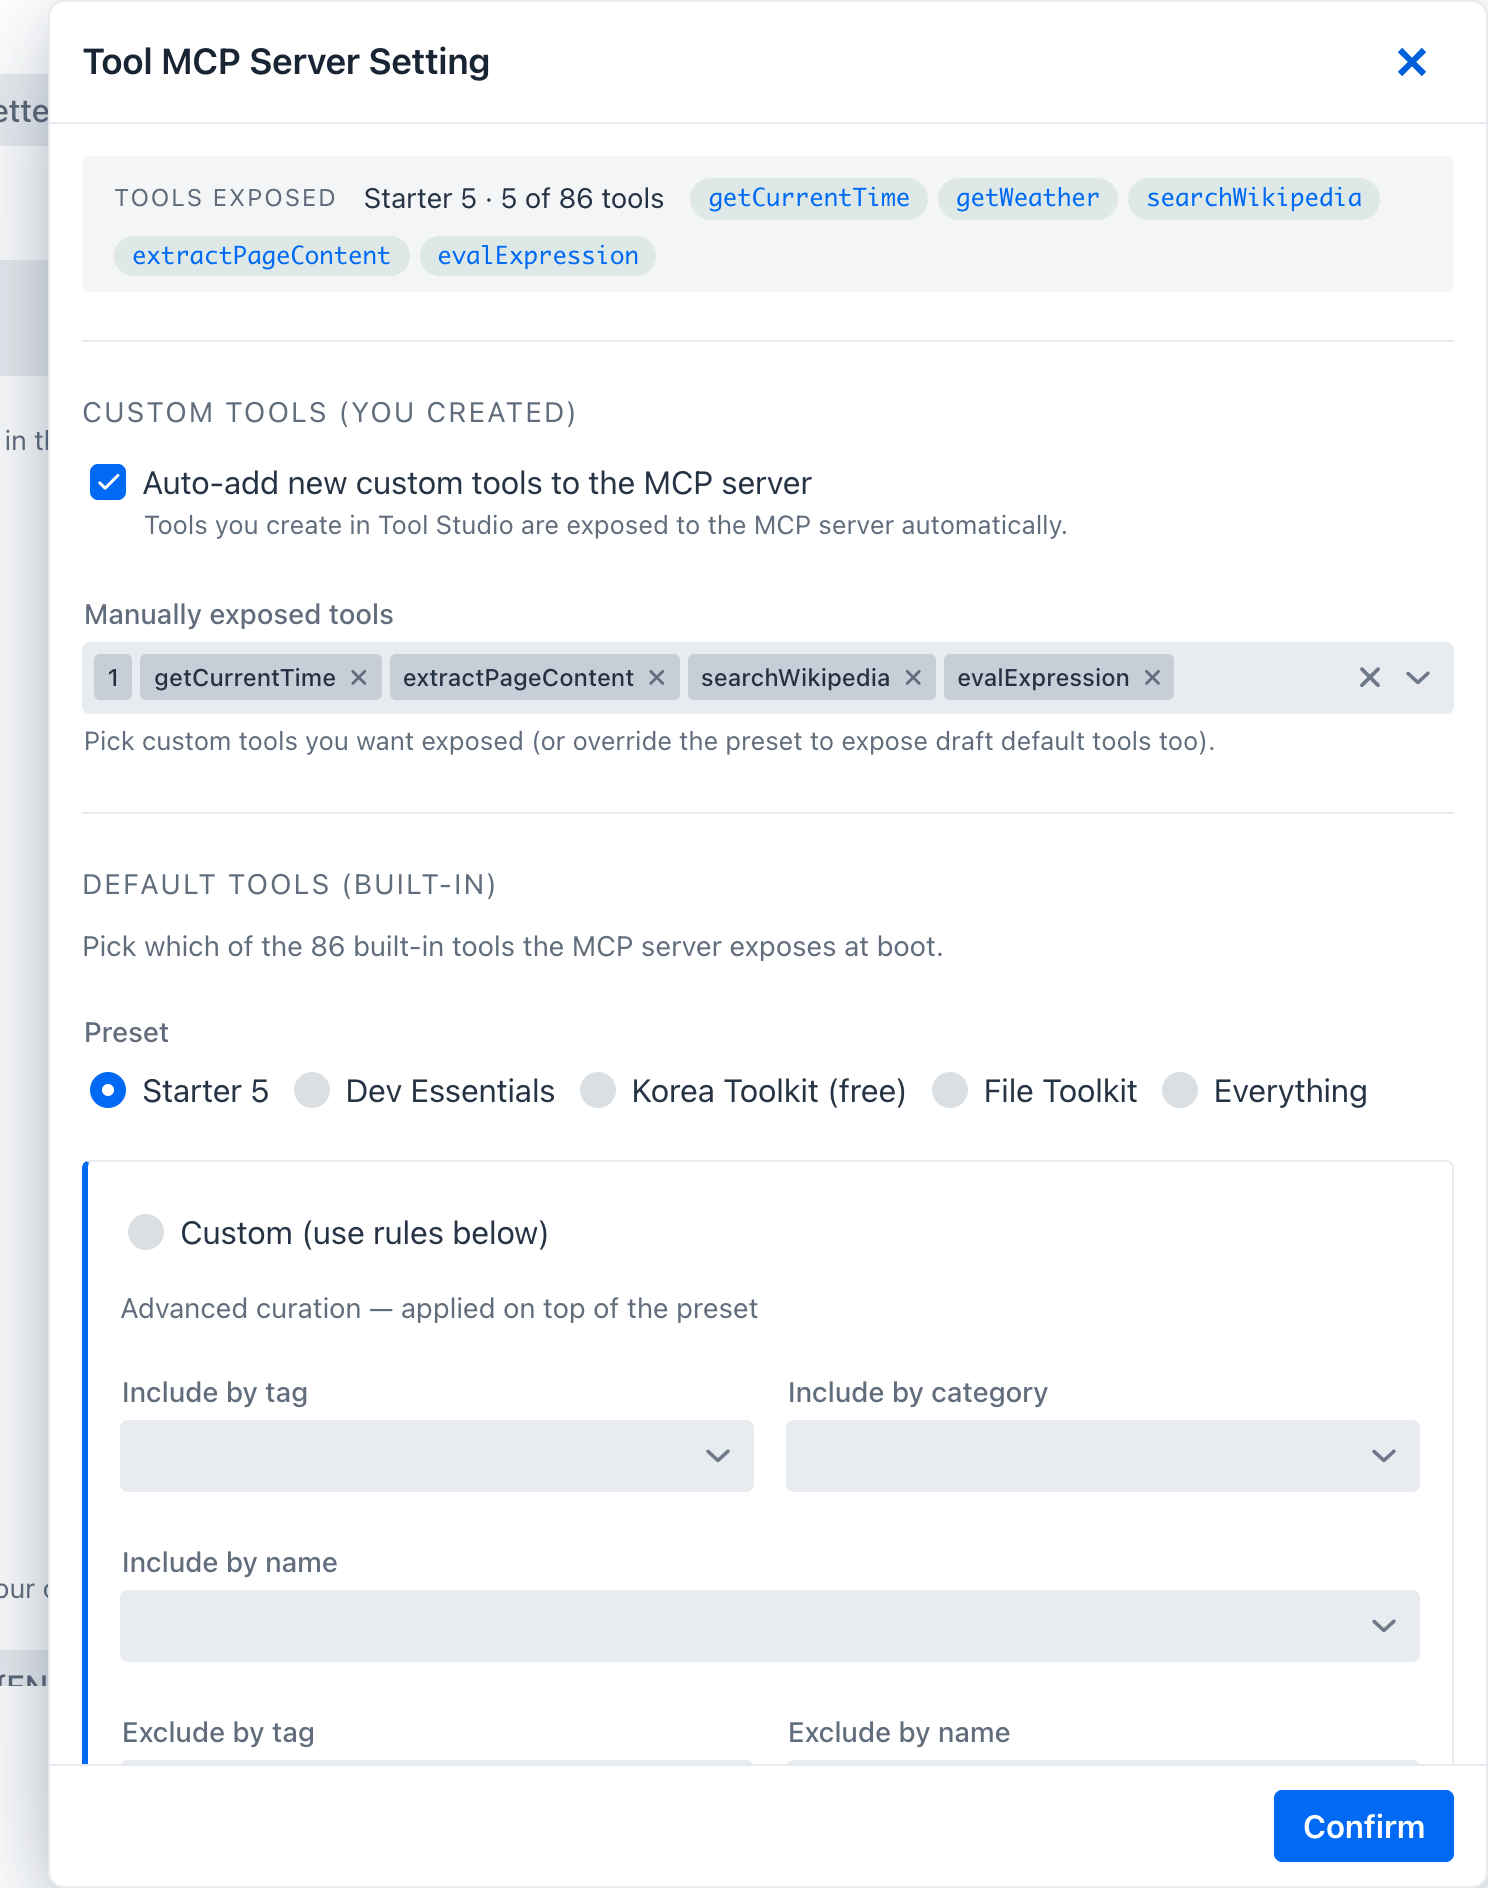
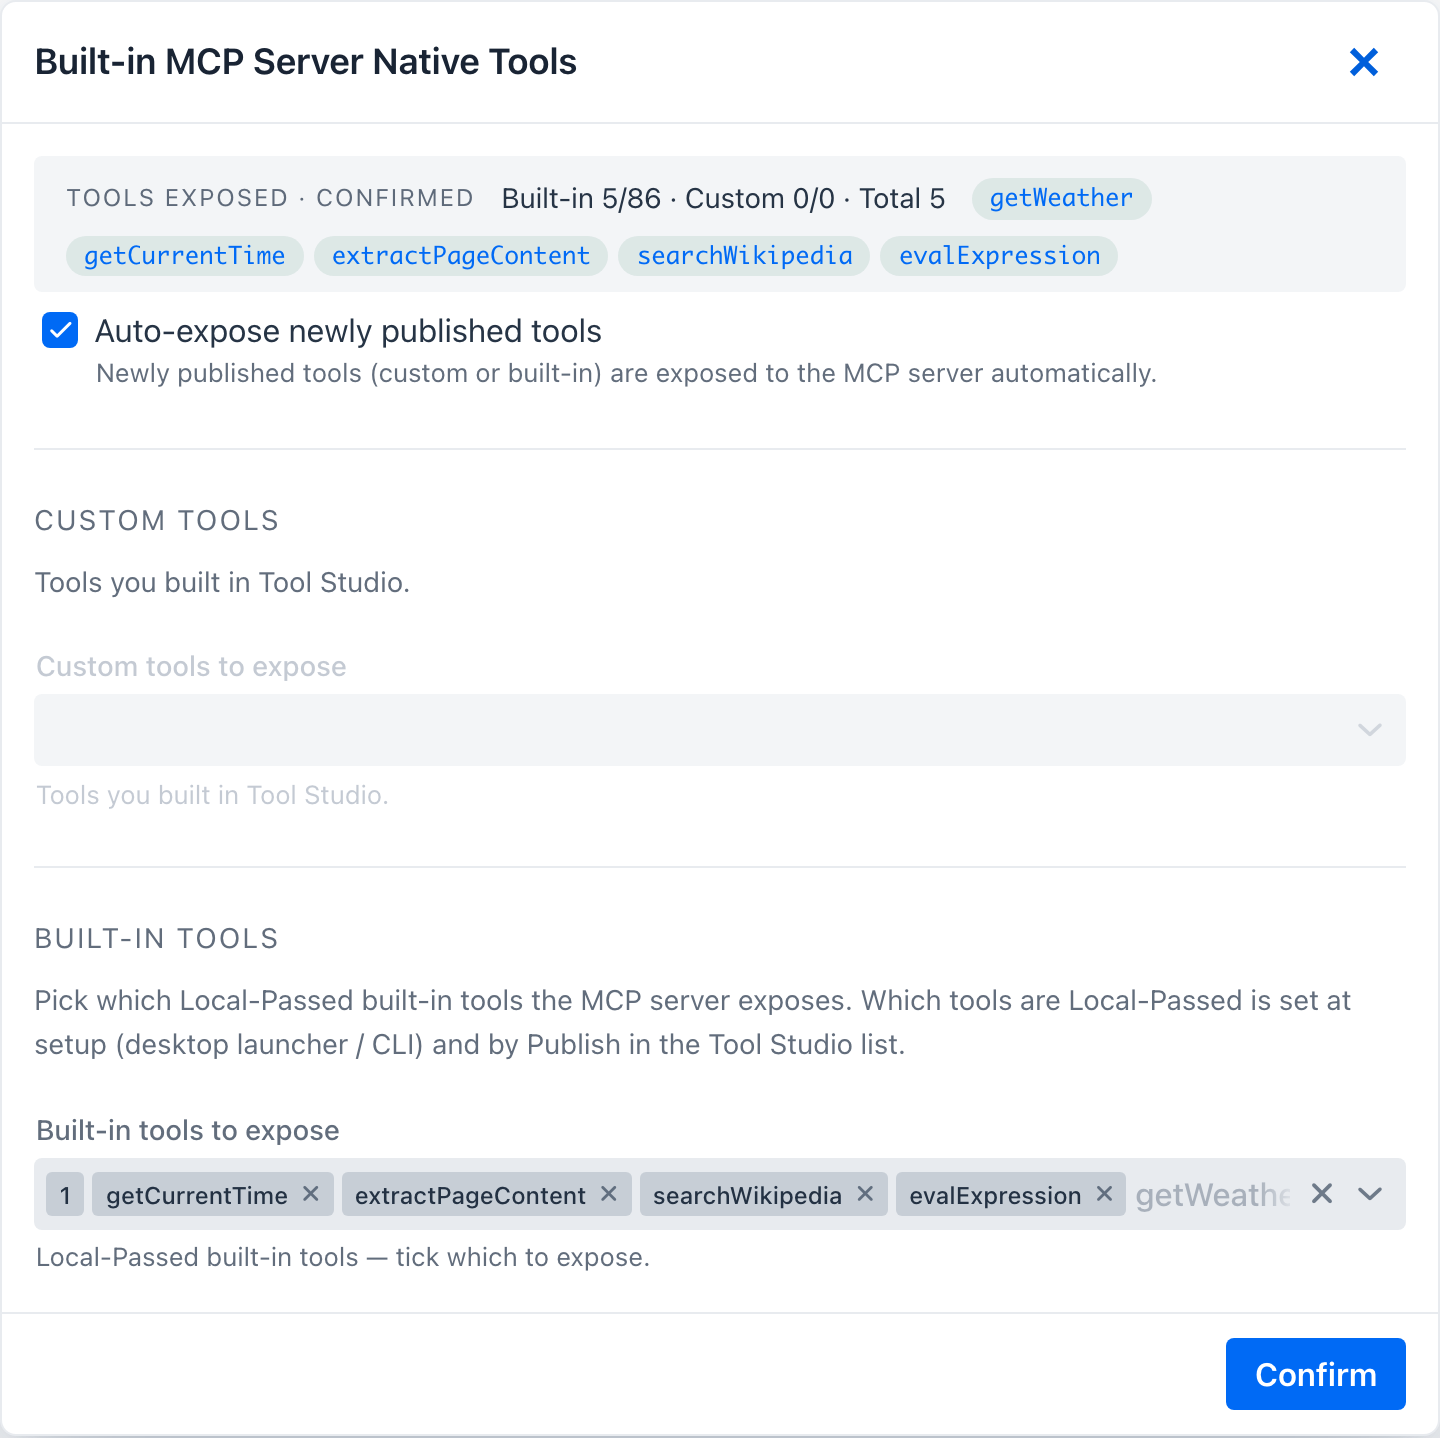
fix(docs): refresh stale ui screenshots, fix lifecycle diagram label

diff --git a/docs/features/vector-database.md b/docs/features/vector-database.md
@@ -6,7 +6,7 @@ description: Vector Database - RAG ingestion and retrieval-validation. Document 
 
 Vector Database is the RAG preparation and retrieval-validation area.
 
-![Vector Database surface - document ingestion form, chunking and embedding pipeline, store selector (Chroma / PGVector / Redis / etc.), and a similarity-search panel for retrieval validation](../assets/images/vectordb.gif)
+![Vector Database - the SimpleVectorStore surface with the embedding model, a similarity-search bar, a Spring AI metadata filter, and the results grid (Score, Id, Text, Metadata)](../assets/images/vector-database.png)
 
 It gives you an end-to-end environment for document ingestion, chunking, embedding, storage, and similarity search.
 

diff --git a/docs/features/agentic-chat.md b/docs/features/agentic-chat.md
@@ -6,7 +6,7 @@ description: Agentic Chat - one runtime combining documents, tools, models, and 
 
 Agentic Chat is the unified runtime where Spring AI Playground combines documents, tools, models, and conversation state.
 
-![Agentic Chat session - model conversation with inline tool-call traces, MCP tool selector, document context drawer, and streamed assistant response](../assets/images/chat-mcp.gif)
+![Agentic Chat - a conversation rendered with per-role avatars and Markdown, above the built-in tool, external MCP, and RAG document selectors and the prompt input](../assets/images/agentic-chat.png)
 
 This unified interface lets you:
 

diff --git a/docs/safe-tool-specification.md b/docs/safe-tool-specification.md
@@ -681,7 +681,7 @@ stateDiagram-v2
 
     DRAFT --> ACTIVE : Local Pass earned<br/>+ env vars resolved
     DRAFT --> MISSING_REQUIREMENTS : draft cleared<br/>but env vars missing
-    DRAFT --> TEST_FAILED : Local Pass attempted<br/>and failed *(reserved)*
+    DRAFT --> TEST_FAILED : Local Pass attempted<br/>and failed (reserved)
 
     MISSING_REQUIREMENTS --> ACTIVE : env vars set
     MISSING_REQUIREMENTS --> DRAFT : draft flag re-raised
